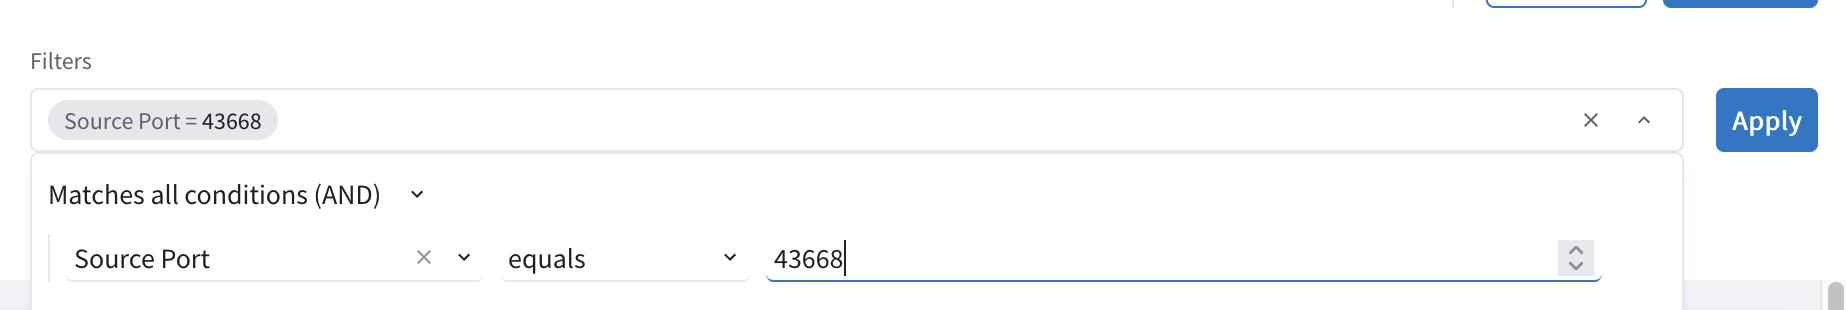
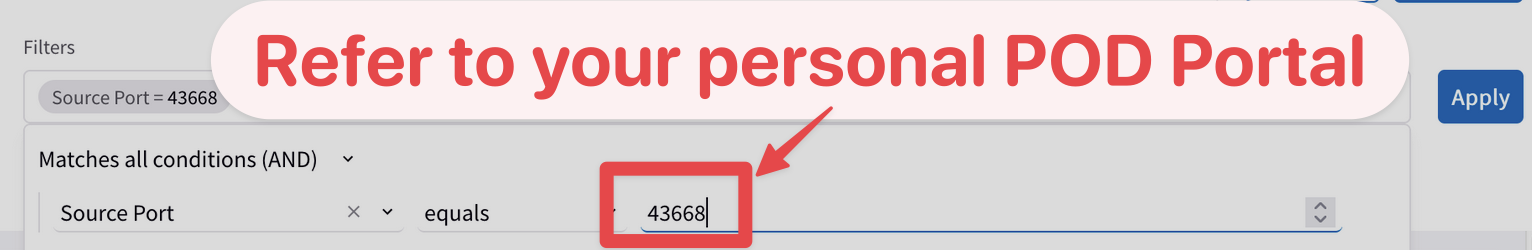
update for flighschool

diff --git a/flightschool/docs/lab1.md b/flightschool/docs/lab1.md
@@ -30,6 +30,15 @@ Log in to CoPilot using the following details:
 
 * _Remember to replace <span style="color:orange">**[#]**</span> with your pod ID_
 
+```{note}
+CoPilot details are available on your personal POD Portal!
+```{figure} images/lab1-portal.png
+---
+align: center
+---
+Personal POD Portal
+```
+
 You can familiarize yourself with the different functions in CoPilot and after each lab, we will verify the results in CoPilot.
 **Please note that it can take a minute for CoPilot to reflect changes on the network.**
 
@@ -48,7 +57,7 @@ align: center
 Initial Topology
 ```
 
-Click on the `"Managed"` button on the right-hand side of the screen, for hiding the Unmanaged VPCs.
+Click on the `"Managed"` button on the right-hand side of the screen, for hiding the **Unmanaged VPCs**.
 
 ```{figure} images/lab1-managed.png
 ---
@@ -103,7 +112,7 @@ Take a look at the access accounts already set up. You can see them in Copilot u
 
 ### Expected Results
 
-Accounts in AWS and Azure have already been onboarded and you should see these accounts in the list. The accounts should also have an audit status **_pass_**, meaning the permissions in the accounts are correctly configured.
+Accounts in AWS and Azure have already been onboarded and you should see these accounts in the list. The accounts should also have an audit status equal to **_pass_**, meaning the permissions in the accounts are correctly configured.
 
 ```{figure} images/lab1-accounts.png
 ---

diff --git a/flightschool/docs/lab2.md b/flightschool/docs/lab2.md
@@ -108,7 +108,15 @@ Aviatrix allows you to filter dynamically learned routes from external sites, an
 ### Validate
 
 * Browse to the transit gateway settings in Copilot, under **_Cloud Fabric -> Gateways -> Transit Gateways_** and click on **_azure-transit_**.
-* Navigate to the **Approval** tabcl and approve the pending CIDR.
+
+```{figure} images/lab2-transitclick.png
+---
+align: center
+---
+Approve route
+```
+
+* Navigate to the **Approval** tab and approve the pending CIDR.
 
 If no CIDR's are showing up here, validate that the BGP peering has established under **_Troubleshoot -> Cloud Routes -> BGP Info_**. If the peering is down, you likely made a configuration error.
 
@@ -226,7 +234,7 @@ align: center
 Full Access
 ```
 
-## Lab 2.6 - Enable network segmentation
+## Lab 2.6 - Enable Network Segmentation
 
 ### Description
 
@@ -391,7 +399,7 @@ Now that we have enabled segmentation, we have not only limited connectivity fro
 
 First check that the connectivity is indeed broken.
 
-* From your own pc connect to:
+* Log on to the Remote Access Server and connect to:
   * `http://azure-lb.pod[#].aviatrixlab.com/test`
 
 As you can see, the Web web application is now broken:
